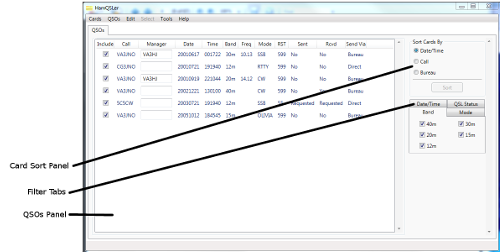
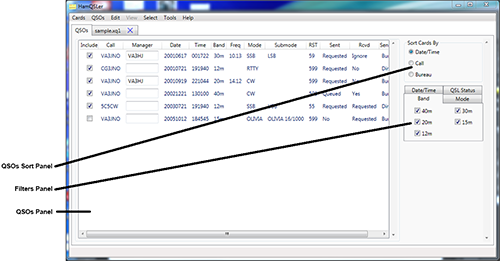
Removed Sort button from QSO Sort Panel. Updated user manual to show the changes. This completes changes for issue #141.

Changed region(s): [[0.0, 0.0, 1.0, 1.0]]

diff --git a/hamqsler/QSOsView.xaml b/hamqsler/QSOsView.xaml
@@ -39,9 +39,6 @@
 				Executed="CallRadioButtonClick_Executed" CanExecute="CallRadioButtonClick_CanExecute"/>
 		<CommandBinding Command="{x:Static local:QSOsView.BureauRadioButtonClickCommand}"
 				Executed="BureauRadioButtonClick_Executed" CanExecute="BureauRadioButtonClick_CanExecute"/>
-		<CommandBinding Command="{x:Static local:QSOsView.ResortButtonClickCommand}"
-				Executed="ResortButtonClickCommand_Executed" 
-				CanExecute="ResortButtonClickCommand_CanExecute"/>
 	</UserControl.CommandBindings>
 	<Grid>
 		<Grid.ColumnDefinitions>
@@ -131,10 +128,6 @@
 						<RadioButton Name="bureauRadioButton" Content="Bureau" Margin="5"
 									ToolTip="Sort QSOs by bureau then manager and callsign, then date and time."
 						             Command="{x:Static local:QSOsView.BureauRadioButtonClickCommand}"/>
-						<Separator Margin="3"/>
-						<Button Name="ResortButton" Margin="5" Width="75" Content="Sort"
-									ToolTip="Sort QSOs again"
-									Command="{x:Static local:QSOsView.ResortButtonClickCommand}"/>
 					</StackPanel>
 				</GroupBox>
 				<TabControl Margin="0,5,0,0">

diff --git a/hamqsler/QSOsView.xaml.cs b/hamqsler/QSOsView.xaml.cs
@@ -53,7 +53,6 @@ namespace hamqsler
 		public static RoutedCommand DateTimeRadioButtonClickCommand = new RoutedCommand();
 		public static RoutedCommand CallRadioButtonClickCommand = new RoutedCommand();
 		public static RoutedCommand BureauRadioButtonClickCommand = new RoutedCommand();
-		public static RoutedCommand ResortButtonClickCommand = new RoutedCommand();
 		
 		private static DependencyProperty DisplayQsosProperty = DependencyProperty.Register(
 			"DisplayQsos", typeof(DisplayQsos), typeof(MainWindow), 
@@ -100,16 +99,6 @@ namespace hamqsler
 		private void BureauRadioButtonClick_CanExecute(object sender, CanExecuteRoutedEventArgs e)
 		{
 			e.CanExecute = DisplayQsos.Count > 0;
-		}
-		
-		/// <summary>
-		/// CanExecute for ResortButton
-		/// </summary>
-		/// <param name="sender">not used</param>
-		/// <param name="e">CanExecuteRoutedEventArgs object</param>
-		private void ResortButtonClickCommand_CanExecute(object sender, CanExecuteRoutedEventArgs e)
-		{
-			e.CanExecute = !(SortOrder == OrderOfSort.DATETIME) && DisplayQsos.NeedsSorting;
 		}
 		
 		/// <summary>
@@ -530,16 +519,6 @@ namespace hamqsler
 			}
 		}
 		
-		/// <summary>
-		/// Handler for ResortButton click event
-		/// </summary>
-		/// <param name="sender">not used</param>
-		/// <param name="e">not used</param>
-		void ResortButtonClickCommand_Executed(object sender, ExecutedRoutedEventArgs e)
-		{
-			Comparer<QsoWithInclude> comparer = GetComparer();
-			DisplayQsos.SortQSOs(comparer);
-		}
 		/// <summary>
 		/// Handler for click events on the Include checkboxes in qsosListView
 		/// </summary>
